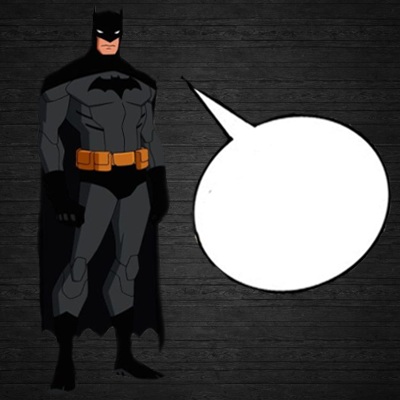
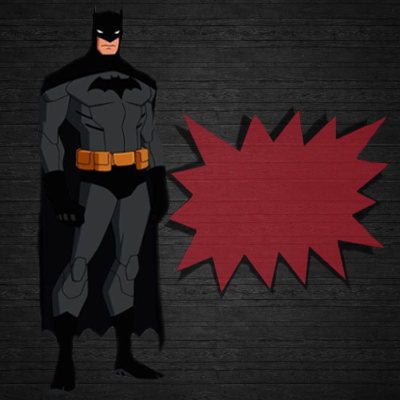
Ny bakgrund igen

Changed region(s): [[0.42, 0.21, 0.99, 0.75]]

diff --git a/src/ShowYolo.java b/src/ShowYolo.java
@@ -1,5 +1,3 @@
-import java.awt.BorderLayout;
-
 import java.awt.EventQueue;
 import java.awt.event.ActionEvent;
 import java.awt.event.ActionListener;
@@ -7,7 +5,6 @@ import java.io.BufferedReader;
 import java.io.InputStream;
 import java.io.InputStreamReader;
 import java.io.StringReader;
-import java.net.MalformedURLException;
 import java.net.URL;
 import java.util.ArrayList;
 import java.util.StringTokenizer;
@@ -15,27 +12,18 @@ import java.util.StringTokenizer;
 import javax.swing.JFrame;
 import javax.swing.JPanel;
 import javax.swing.border.EmptyBorder;
-import javax.swing.text.JTextComponent;
-import javax.swing.JTextField;
 import javax.xml.parsers.DocumentBuilder;
 import javax.xml.parsers.DocumentBuilderFactory;
 
 import org.w3c.dom.Document;
 import org.w3c.dom.Element;
-import org.w3c.dom.Node;
 import org.w3c.dom.NodeList;
 import org.xml.sax.InputSource;
 
-import javax.swing.BorderFactory;
-import javax.swing.JTextArea;
-import javax.swing.JScrollPane;
-import javax.swing.JScrollBar;
-import javax.swing.JTextPane;
 import javax.swing.JComboBox;
 import javax.swing.JLabel;
 import javax.swing.ImageIcon;
 import java.awt.Color;
-import javax.swing.JRadioButton;
 
 
 
@@ -94,14 +82,14 @@ public class ShowYolo extends JFrame {
 		contentPane.add(mySailorButt_);
 		
 		
-		System.out.println(mySailorButt_.isSailorChosen());
-		
 		
 		final JLabel label = new JLabel("");
+		label.setForeground(Color.YELLOW);
 		label.setBounds(221, 153, 147, 61);
 		contentPane.add(label);
 		
 		final JLabel lblNewLabel_2 = new JLabel("");
+		lblNewLabel_2.setForeground(Color.YELLOW);
 		lblNewLabel_2.setBounds(221, 213, 155, 67);
 		contentPane.add(lblNewLabel_2);
 		
@@ -144,15 +132,10 @@ public class ShowYolo extends JFrame {
 				}
 			}	
 		});
-		
-		
 		createParser();
-		
 		JLabel lblNewLabel = new JLabel(bgSail);
 		lblNewLabel.setBounds(0, 0, 400, 400);
 		contentPane.add(lblNewLabel);
-		
-		
 	}
 
 

diff --git a/src/mySailorButt.java b/src/mySailorButt.java
@@ -6,6 +6,7 @@ import javax.swing.Action;
 import javax.swing.Icon;
 import javax.swing.ImageIcon;
 import javax.swing.JButton;
+import javax.swing.JLabel;
 
 
 public class mySailorButt extends JButton implements ActionListener {
@@ -15,13 +16,15 @@ public class mySailorButt extends JButton implements ActionListener {
 	ImageIcon sailor1 = new ImageIcon(getClass().getResource("/pics/sailormoonknapptest1.png"));
 	ImageIcon sailor2 = new ImageIcon(getClass().getResource("/pics/sailormoonknapptest2.png"));
 	ImageIcon sailor3 = new ImageIcon(getClass().getResource("/pics/sailormoonknapptest3.png"));
-
 	ImageIcon sailor4 = new ImageIcon(getClass().getResource("/pics/sailormoonknapptest4.png"));
 	
 	ImageIcon batman1 = new ImageIcon(getClass().getResource("/pics/batmanbuttontest1.png"));
 	ImageIcon batman2 = new ImageIcon(getClass().getResource("/pics/batmanbuttontest2.png"));
 	ImageIcon batman3 = new ImageIcon(getClass().getResource("/pics/batmanbuttontest3.png"));
 	ImageIcon batman4 = new ImageIcon(getClass().getResource("/pics/batmanbuttontest4.png"));
+	
+	ImageIcon bgSail = new ImageIcon(getClass().getResource("/pics/sailor moonklar.png"));
+	ImageIcon bgBat = new ImageIcon(getClass().getResource("/pics/batman.png"));
 
 	public mySailorButt() {
 	}
@@ -79,7 +82,9 @@ public class mySailorButt extends JButton implements ActionListener {
 	@Override
 	public void actionPerformed(ActionEvent e) {
 		sailorChosen = !sailorChosen;
+		
 		//System.out.println("Sailor moon: "+sailorChosen);
+		
 	}
 
 }
